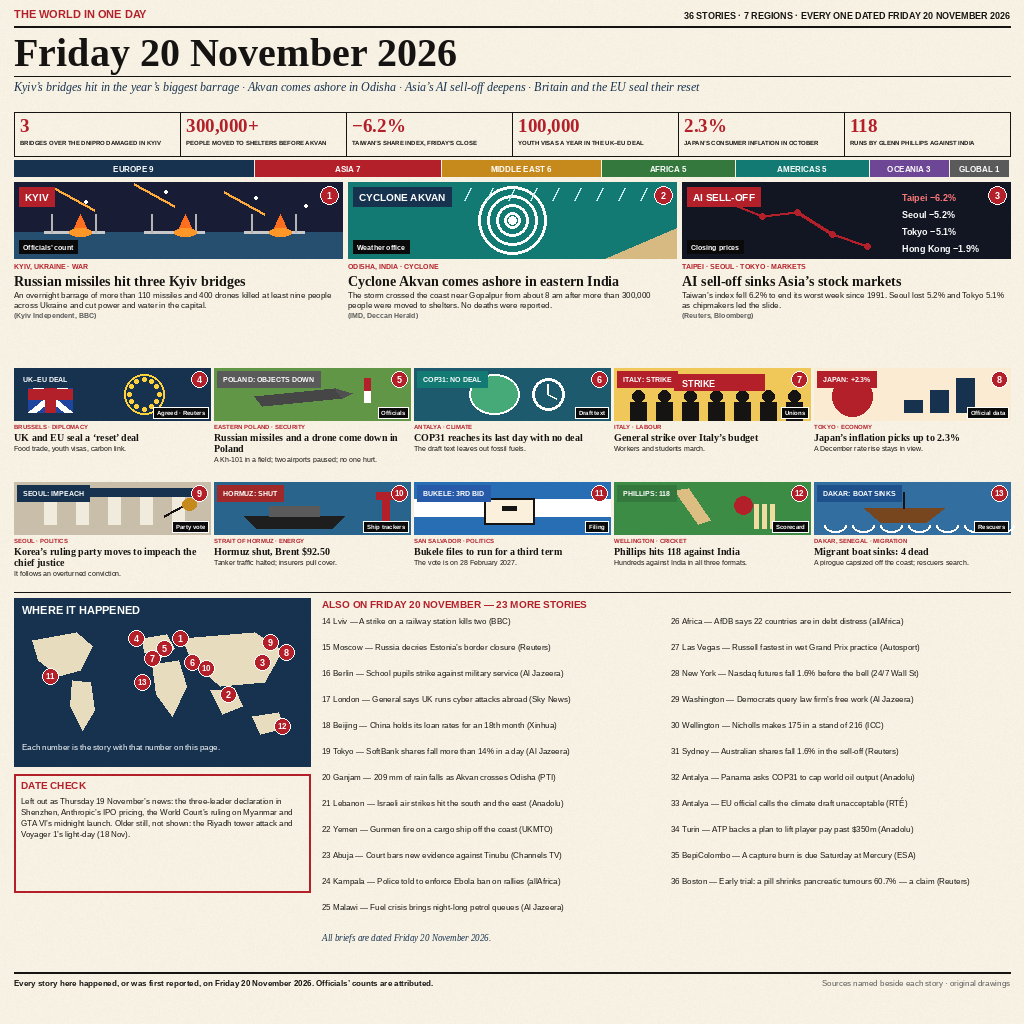
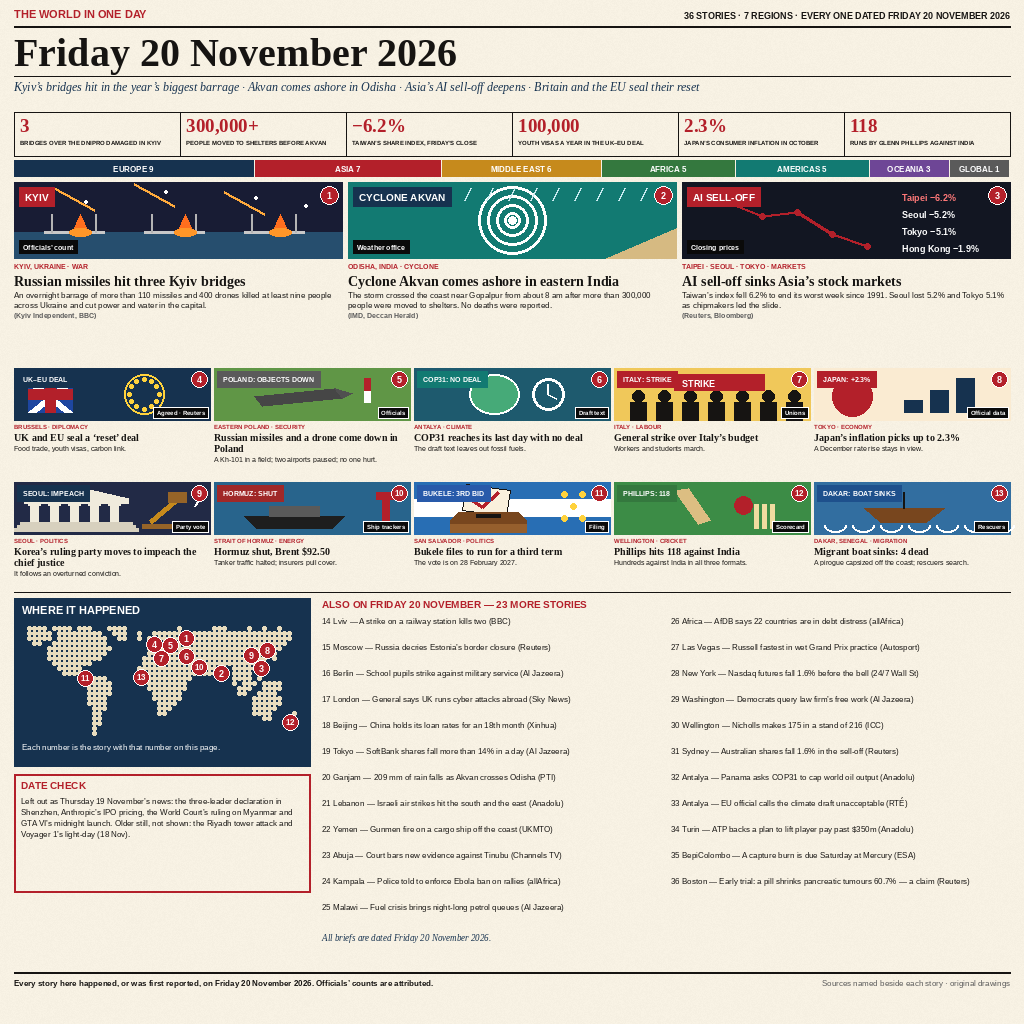
Fixer pass: dot-matrix world map with placed pins, richer Seoul courthouse and Bukele ballot scenes, main.py missing-file guard

Changed region(s): [[0.0312, 0.5938, 0.3125, 0.7188], [0.0, 0.4688, 0.2188, 0.5312], [0.4375, 0.4688, 0.5312, 0.5312]]

diff --git a/draw.py b/draw.py
@@ -235,12 +235,19 @@ def card_scene(kind, x, y, w, h):
         for i, bh in enumerate((12, 22, 34)):
             d.rectangle([x + 90 + i * 26, y + h - 8 - bh, x + 108 + i * 26, y + h - 8], fill=NAVY)
     elif kind == 9:
-        d.rectangle([x, y, x + w, y + h], fill=(200, 190, 170))
-        for cx2 in (30, 62, 94, 126, 158):
-            d.rectangle([x + cx2, y + 14, x + cx2 + 12, y + h - 10], fill=(240, 235, 220))
-        d.rectangle([x + 16, y + 6, x + w - 16, y + 14], fill=NAVY)
-        d.line([x + 150, y + 34, x + 172, y + 22], fill=INK, width=3)
-        d.ellipse([x + 168, y + 16, x + 182, y + 28], fill=OCHRE)
+        d.rectangle([x, y, x + w, y + h], fill=(34, 42, 70))
+        d.polygon([(x + 10, y + 16), (x + 62, y + 4), (x + 114, y + 16)], fill=(240, 235, 220))
+        d.rectangle([x + 10, y + 17, x + 114, y + 21], fill=(240, 235, 220))
+        for cx2 in (16, 36, 56, 76, 96):
+            d.rectangle([x + cx2, y + 23, x + cx2 + 8, y + 40], fill=(240, 235, 220))
+            d.rectangle([x + cx2 - 2, y + 21, x + cx2 + 10, y + 23], fill=(240, 235, 220))
+        d.rectangle([x + 6, y + 40, x + 118, y + 43], fill=(215, 208, 190))
+        d.rectangle([x + 3, y + 43, x + 121, y + 46], fill=(215, 208, 190))
+        d.rectangle([x, y + 46, x + 124, y + 49], fill=(215, 208, 190))
+        d.line([x + 136, y + 40, x + 162, y + 18], fill=OCHRE, width=5)
+        d.rectangle([x + 154, y + 10, x + 172, y + 20], fill=(150, 100, 40))
+        d.rectangle([x + 128, y + 42, x + 166, y + 46], fill=(150, 100, 40))
+        d.arc([x + 168, y + 8, x + 184, y + 26], -55, 55, fill=WHITE, width=2)
     elif kind == 10:
         d.rectangle([x, y, x + w, y + h], fill=(40, 100, 140))
         d.polygon([(x + 30, y + 34), (x + 130, y + 34), (x + 118, y + 46), (x + 42, y + 46)], fill=(30, 30, 30))
@@ -250,8 +257,15 @@ def card_scene(kind, x, y, w, h):
     elif kind == 11:
         d.rectangle([x, y, x + w, y + h], fill=(40, 110, 180))
         d.rectangle([x, y + h // 3, x + w, y + 2 * h // 3], fill=WHITE)
-        d.rectangle([x + 70, y + 16, x + 120, y + 42], fill=(250, 240, 220), outline=INK, width=2)
-        d.rectangle([x + 88, y + 24, x + 102, y + 28], fill=INK)
+        d.polygon([(x + 52, y + 2), (x + 96, y + 8), (x + 92, y + 34), (x + 48, y + 28)], fill=(250, 240, 220), outline=INK)
+        d.line([x + 58, y + 18, x + 68, y + 25], fill=RED, width=3)
+        d.line([x + 68, y + 25, x + 84, y + 10], fill=RED, width=3)
+        d.polygon([(x + 44, y + 30), (x + 104, y + 30), (x + 112, y + 38), (x + 36, y + 38)], fill=(120, 70, 30))
+        d.rectangle([x + 62, y + 32, x + 86, y + 35], fill=INK)
+        d.rectangle([x + 36, y + 38, x + 112, y + h - 2], fill=(150, 95, 45))
+        d.rectangle([x + 36, y + 38, x + 112, y + 41], fill=(120, 70, 30))
+        for sx, sy2 in [(150, 12), (168, 12), (159, 24), (150, 36), (168, 36)]:
+            d.ellipse([x + sx - 3, y + sy2 - 3, x + sx + 3, y + sy2 + 3], fill=(255, 210, 60))
     elif kind == 12:
         d.rectangle([x, y, x + w, y + h], fill=(60, 140, 70))
         d.polygon([(x + 60, y + 8), (x + 74, y + 6), (x + 96, y + 38), (x + 84, y + 42)], fill=(220, 190, 130))
@@ -301,21 +315,41 @@ d.line([M, by - 6, W - M, by - 6], fill=INK, width=1)
 mapw = 296
 d.rectangle([M, by, M + mapw, by + 168], fill=NAVY)
 d.text((M + 8, by + 6), "WHERE IT HAPPENED", font=F(SANS_B, 11), fill=WHITE)
-# schematic continents (tan polygons in panel coords)
-conts = [
-    [(18, 42), (62, 34), (78, 48), (66, 72), (44, 78), (24, 62)],
-    [(58, 82), (76, 84), (80, 112), (68, 132), (56, 108)],
-    [(128, 40), (152, 36), (160, 50), (146, 60), (130, 54)],
-    [(138, 66), (164, 62), (172, 88), (158, 118), (142, 96)],
-    [(168, 40), (240, 34), (268, 52), (250, 84), (206, 88), (178, 64)],
-    [(196, 92), (220, 90), (228, 108), (208, 116)],
-    [(238, 118), (264, 114), (270, 130), (246, 136)],
+# dot-matrix world map: 56x22 land grid, lon -170..190 / lat 75..-60
+LAND = [
+    ".####.####.###...####..........#......###....#..#..#....",
+    ".#####.#########..###..#..############################..",
+    ".#####.##########..##..#.#############################..",
+    "..##..###########........############################...",
+    ".....#############.......###########################....",
+    ".....############........##########################.....",
+    ".....###########........#########################.#.....",
+    "......########..........#########################.......",
+    ".......#####...........##################.######........",
+    "........####...........##################.####..........",
+    "...........######.......##########.....#..####.#........",
+    ".............#####.......########.........#.###.####....",
+    ".............#####.......########..........###..####....",
+    ".............#####........######...........##..####.....",
+    ".............####.........######..............######....",
+    ".............####..........####...............######....",
+    "..............###..........###................#####.....",
+    "..............##...........##.................####....#.",
+    "..............##................................##...##.",
+    "..............##.....................................#..",
+    "..............#.........................................",
+    "..............#.........................................",
 ]
-for poly in conts:
-    d.polygon([(M + px, by + py) for px, py in poly], fill=CREAM)
-pins = {1: (166, 40), 2: (214, 96), 3: (248, 64), 4: (122, 40), 5: (150, 50),
-        6: (178, 64), 7: (138, 60), 8: (272, 54), 9: (256, 44), 10: (192, 70),
-        11: (36, 78), 12: (268, 128), 13: (128, 84)}
+assert all(len(row) == 56 for row in LAND)
+gx, gy = M + 8, by + 28
+for r, row in enumerate(LAND):
+    for c, ch in enumerate(row):
+        if ch == "#":
+            cx, cy = gx + c * 5 + 2, gy + r * 5 + 2
+            d.ellipse([cx - 2, cy - 2, cx + 2, cy + 2], fill=CREAM)
+pins = {1: (172, 40), 2: (207, 75), 3: (247, 70), 4: (140, 46), 5: (156, 47),
+        6: (172, 58), 7: (147, 60), 8: (253, 52), 9: (237, 57), 10: (185, 69),
+        11: (71, 80), 12: (276, 124), 13: (127, 79)}
 for n, (px, py) in pins.items():
     num_badge(d, M + px, by + py, n, r=8)
 cap = "Each number is the story with that number on this page."

diff --git a/main.py b/main.py
@@ -7,6 +7,8 @@ import shutil
 def main():
     here = os.path.dirname(os.path.abspath(__file__))
     src = os.path.join(here, "entry.png")
+    if not os.path.isfile(src):
+        raise SystemExit("entry.png is missing beside main.py; nothing to copy")
     out_dir = os.environ.get("MAKEFUN_OUTPUT_DIR", "/output")
     os.makedirs(out_dir, exist_ok=True)
     dst = os.path.join(out_dir, "entry.png")
